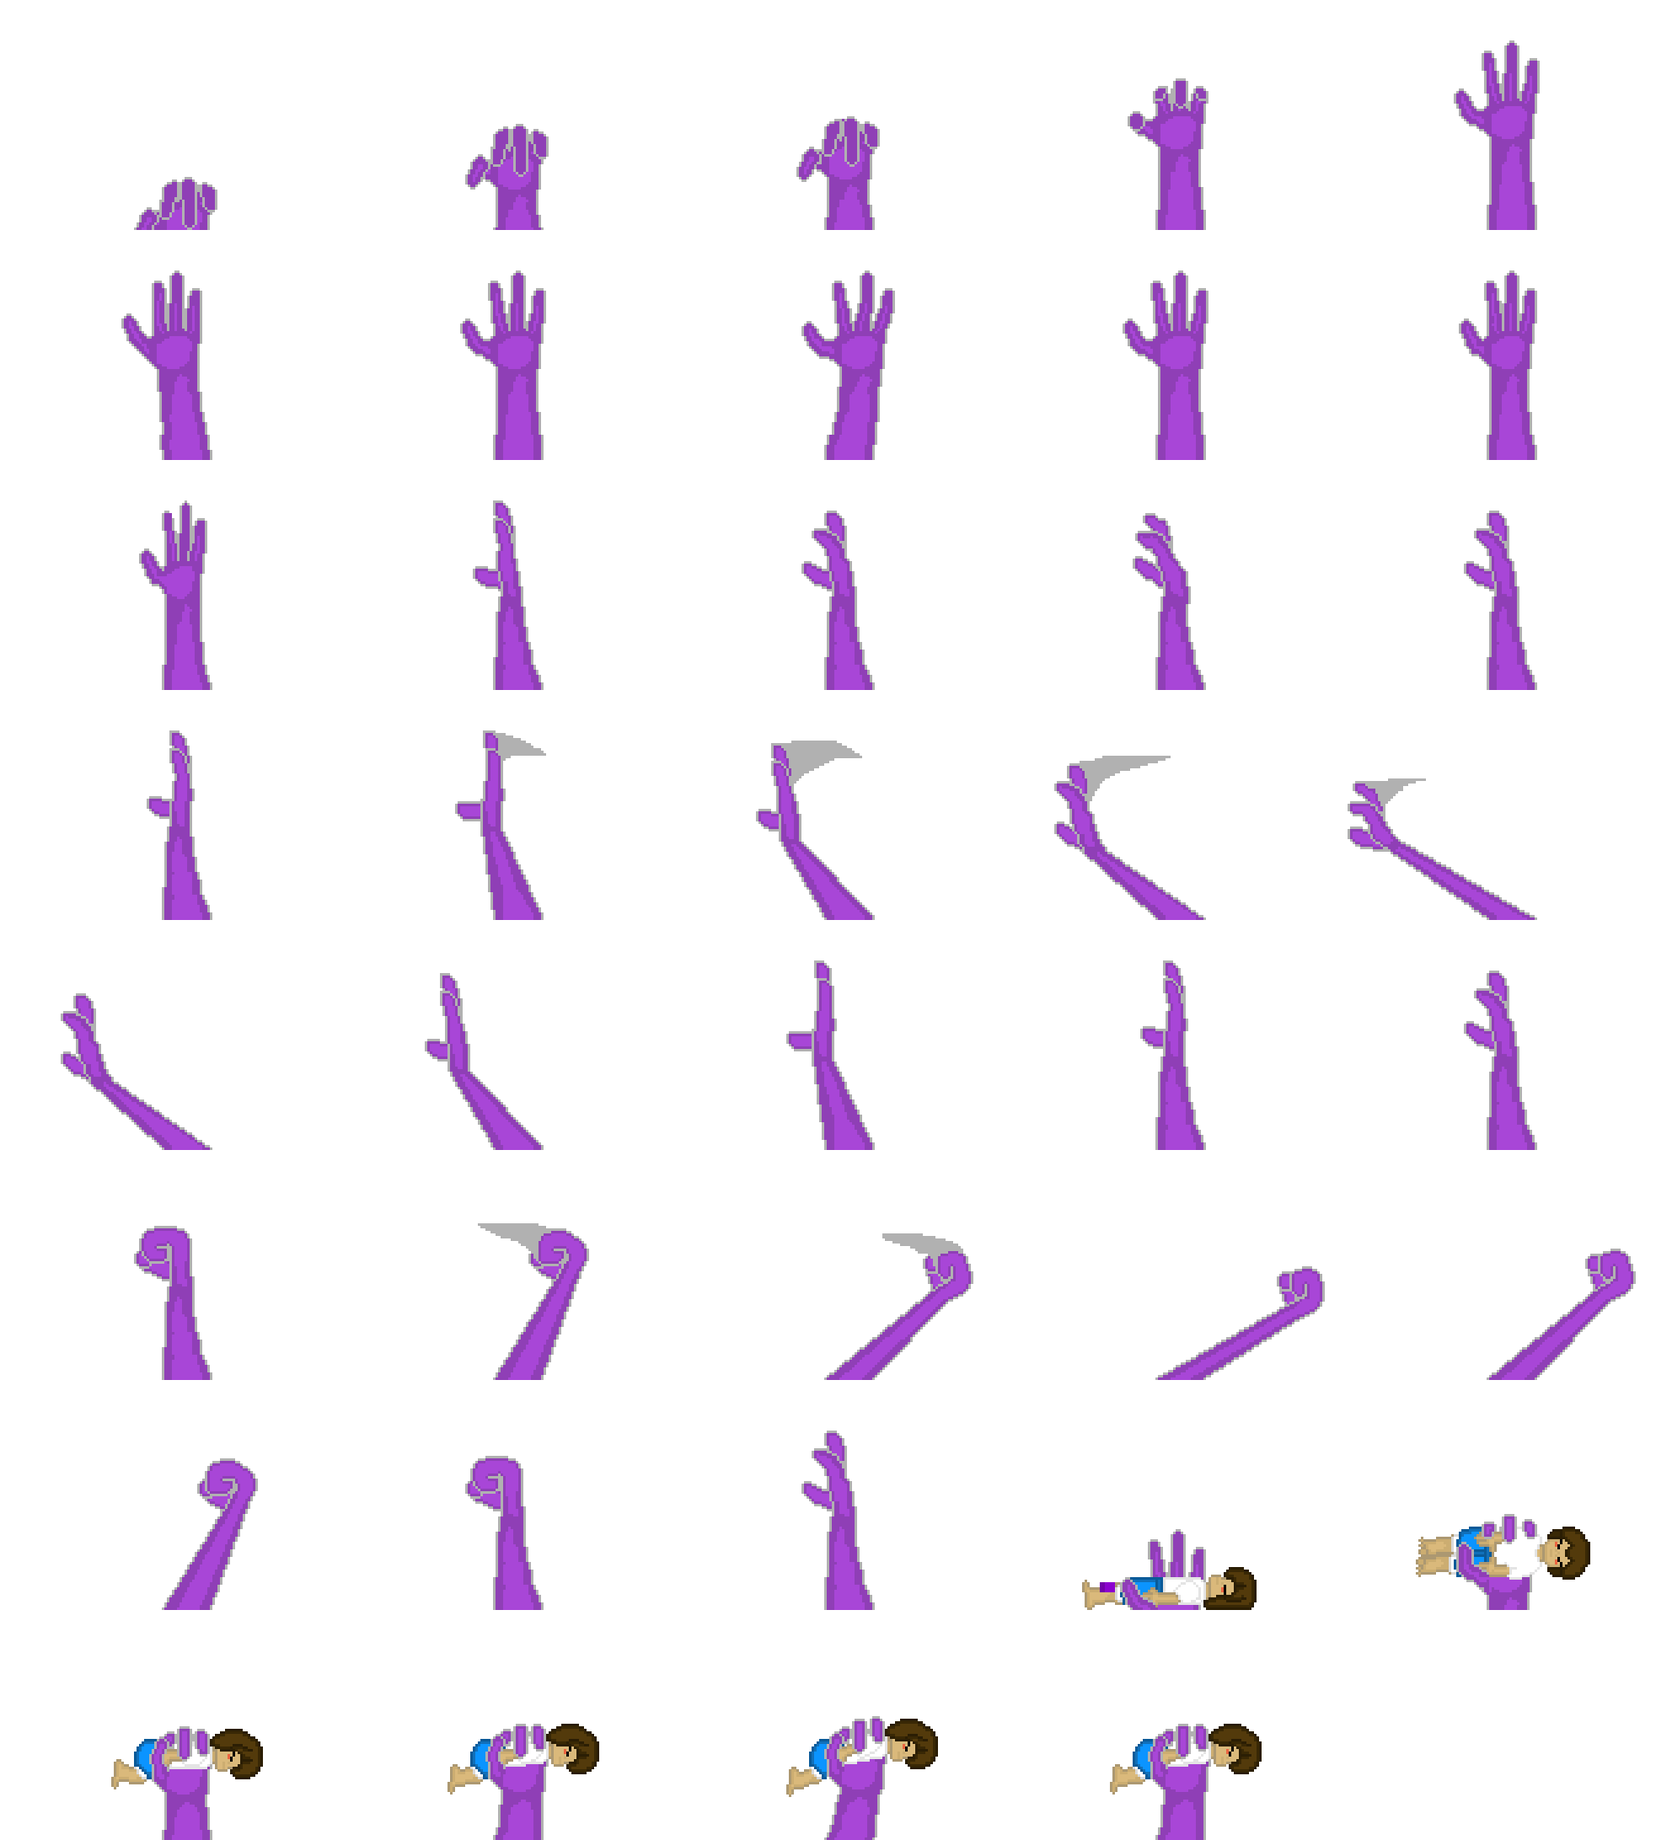
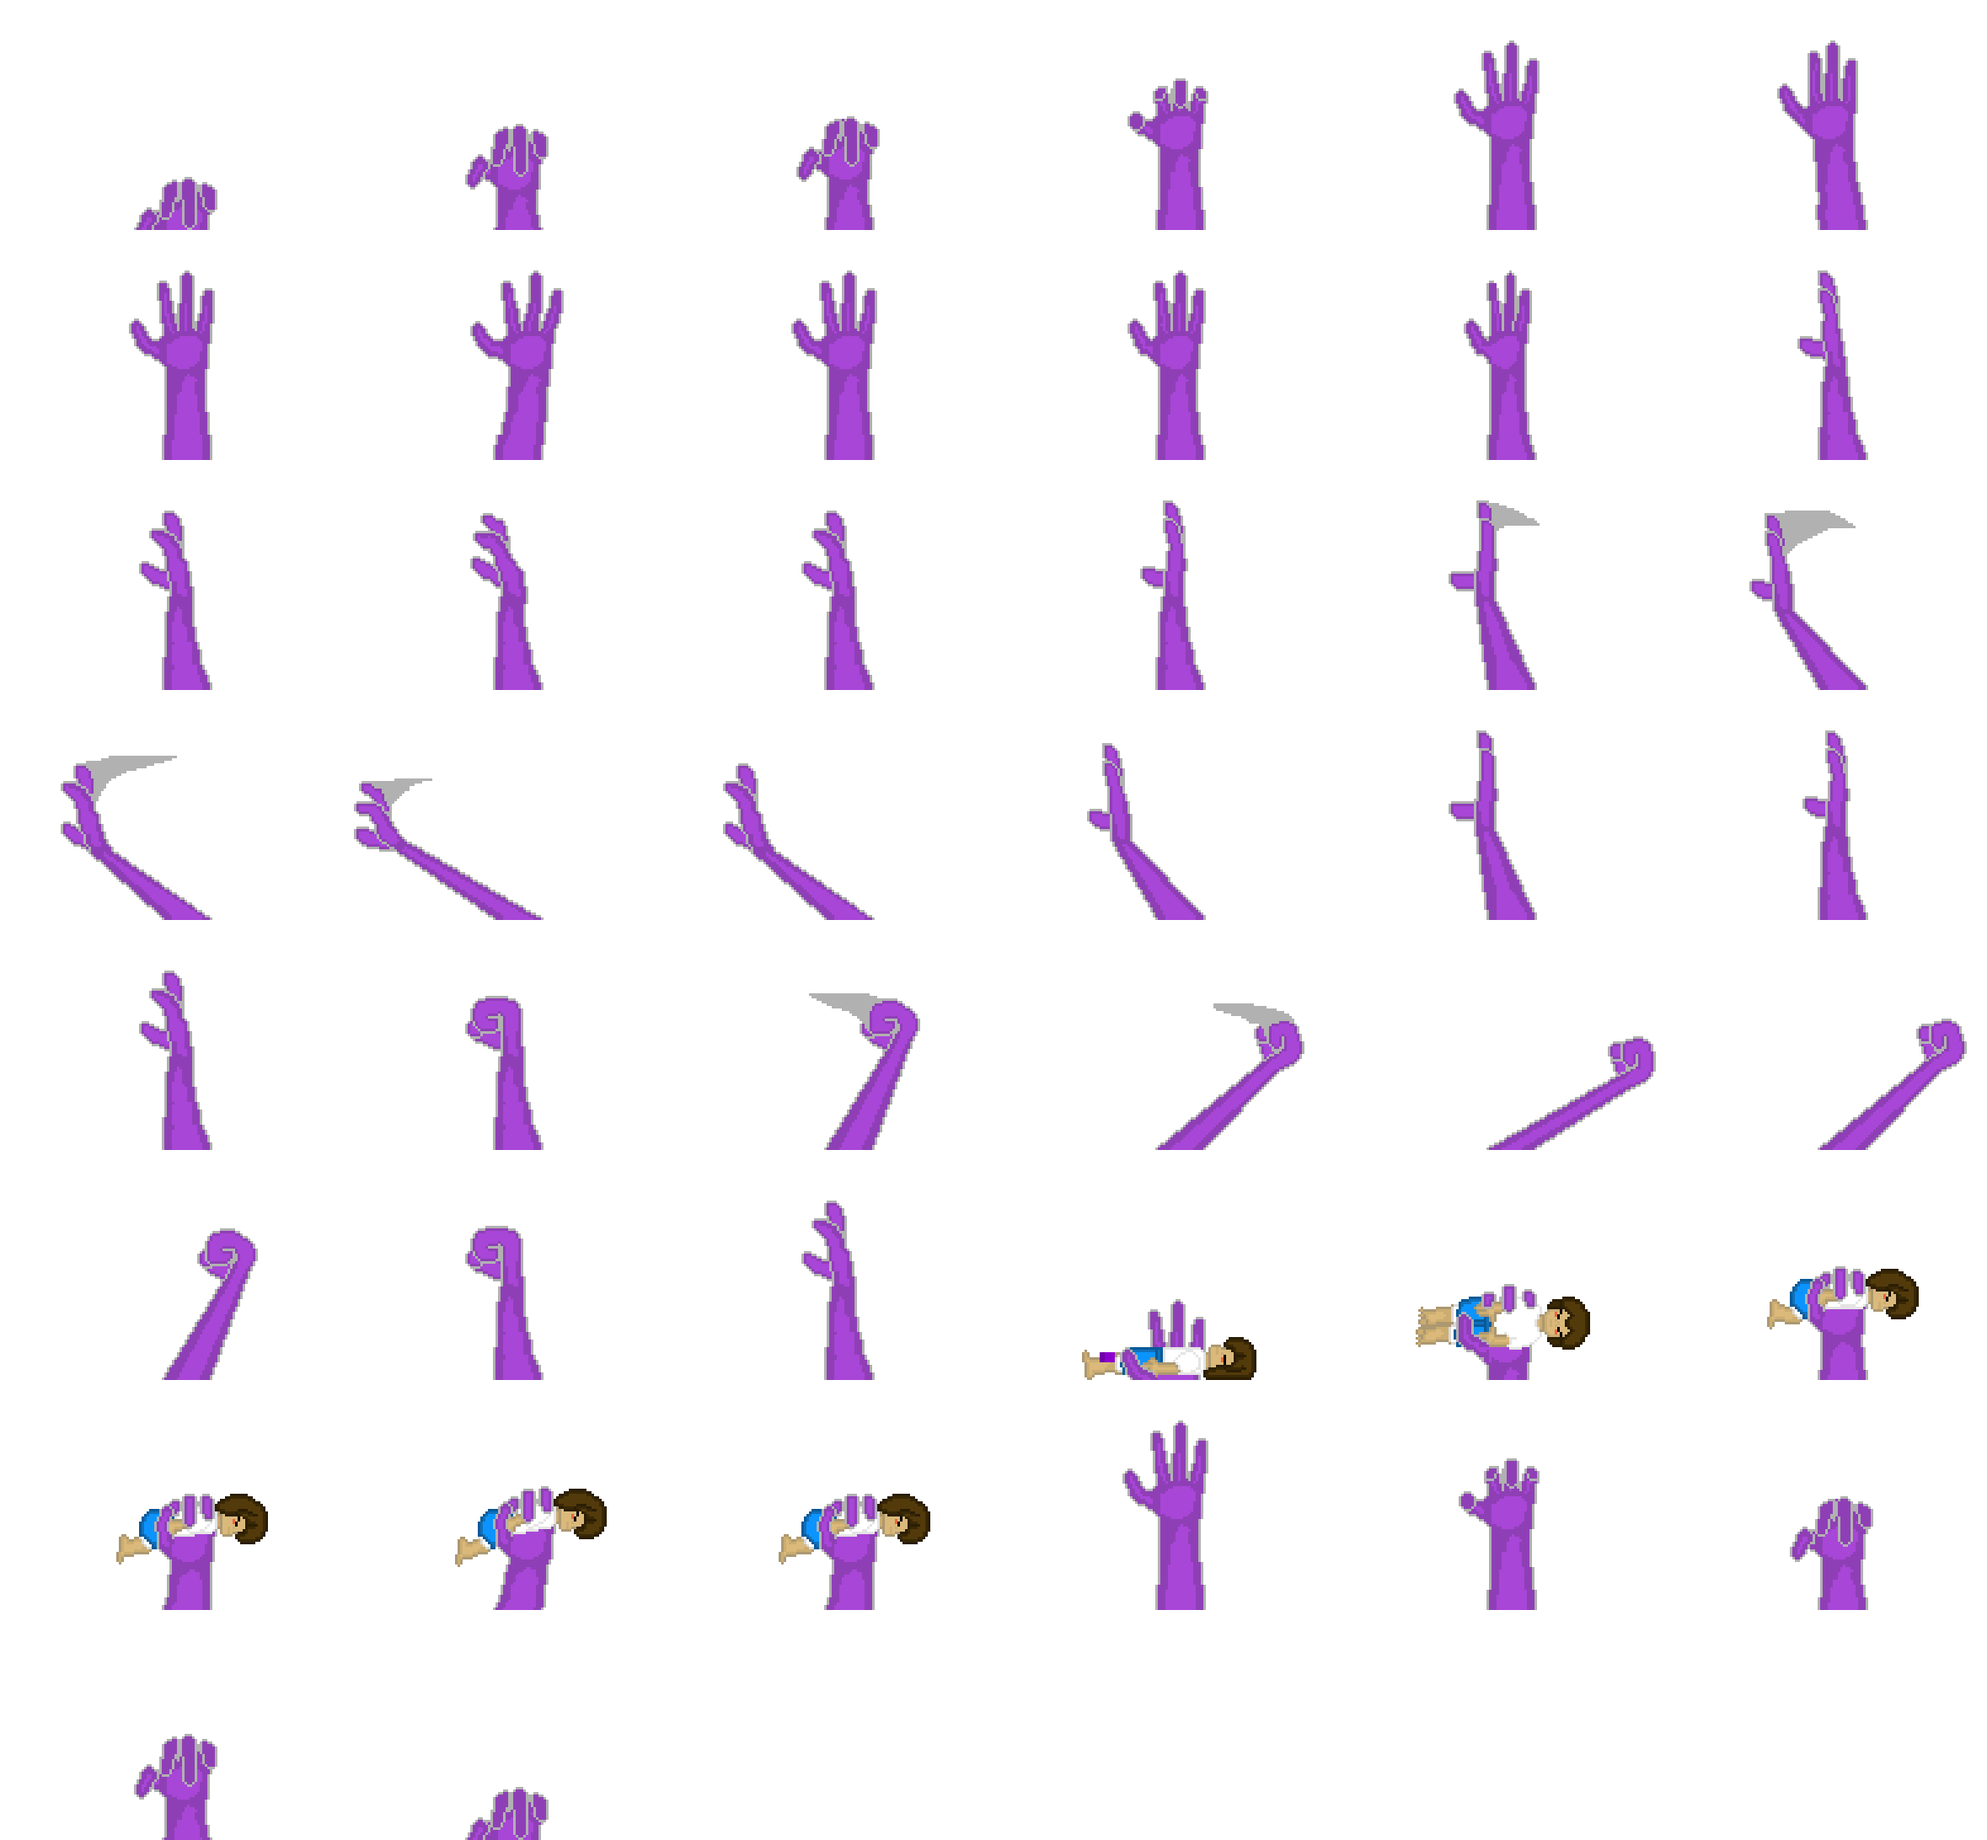
saving mushroom boss progress.

diff --git a/scripts/enemyScripts/bosses/matangoRoot.js b/scripts/enemyScripts/bosses/matangoRoot.js
@@ -691,12 +691,26 @@ class matangoRoot extends matangoRootUnbirth {
 
                          //temp.isAttacking = true;
                         if(temp.scene.player1.x > temp.x){
-                           temp.rightHand.x = temp.scene.player1.x;
-                           temp.rightHand.hitBoxPositionActive(temp.scene.player1.x,temp.scene.player1.y);
+                            temp.rightHand.anims.play('handSink').once('animationcomplete', () => { 
+                                if(temp.scene.playerStuckGrabbedBy === "knockdown"){
+                                    temp.rightHand.x = temp.scene.player1.x;
+                                    temp.rightHand.hitBoxPositionActive(temp.scene.player1.x,temp.scene.player1.y);
+                                    temp.playerGrabbedByThisHand = "right";
+                                }else{
+                                    temp.rightHand.handRise();
+                                }
+                           });
                             //temp.rightHand.handRise();
                         }else{
-                           temp.leftHand.x = temp.scene.player1.x;
-                           temp.leftHand.hitBoxPositionActive(temp.scene.player1.x,temp.scene.player1.y);
+                            temp.leftHand.anims.play('handSink').once('animationcomplete', () => { 
+                                if(temp.scene.playerStuckGrabbedBy === "knockdown"){
+                                    temp.leftHand.x = temp.scene.player1.x;
+                                    temp.leftHand.hitBoxPositionActive(temp.scene.player1.x,temp.scene.player1.y);
+                                    temp.playerGrabbedByThisHand = "left";
+                                }else{
+                                    temp.leftHand.handRise();
+                                }
+                            });
                            //temp.leftHand.handRise();
                         }
 
@@ -709,8 +723,38 @@ class matangoRoot extends matangoRootUnbirth {
 
                 //console.log("player currently in knockdown logic.");
             }else if(this.scene.playerStuckGrabbedBy !== "knockdown" && this.knockdownCheck === true ){
+
                 this.knockdownCheck = false;
-                this.turning = false;
+
+                if(this.playerGrabbedByThisHand === "right"){
+
+                    this.rightHand.visible = true;
+                    this.rightHand.curseLight.visible = true;
+                    this.rightHand.anims.play('rise1').once('animationcomplete', () => {
+                        this.rightHand.curseLight.intensity = 0.7;
+                        this.rightHand.curseLight.radius = 90;
+                        this.rightHand.curseLight.y = this.y+30
+                        this.rightHand.anims.play('rise2').once('animationcomplete', () => {
+                            this.rightHand.curseLight.intensity = 0.7;
+                            this.rightHand.curseLight.radius = 120;
+                            this.rightHand.curseLight.y = this.y+10
+                            this.rightHand.anims.play('rise3').once('animationcomplete', () => {
+    
+                                this.turning = false;
+                                this.attackCooldown = true;
+                                this.isAttacking = false;
+                                let temp = this;
+                                setTimeout(function () {
+                                    temp.attackCooldown = false;
+                                }, 1000);
+                            
+                            });
+                        });
+                        });
+                }else{
+
+                }
+                
             }
             
         }

diff --git a/scripts/enemyScripts/bosses/mushroomHandSingle.js b/scripts/enemyScripts/bosses/mushroomHandSingle.js
@@ -44,6 +44,7 @@ class mushroomHandSingle extends enemy{
         }else{
 
         }
+        this.anims.create({ key: 'handSink', frames: this.anims.generateFrameNames('mushroom-hands-single', { start: 39, end: 343 }), frameRate:  8, repeat: 0 });
         
   
 
